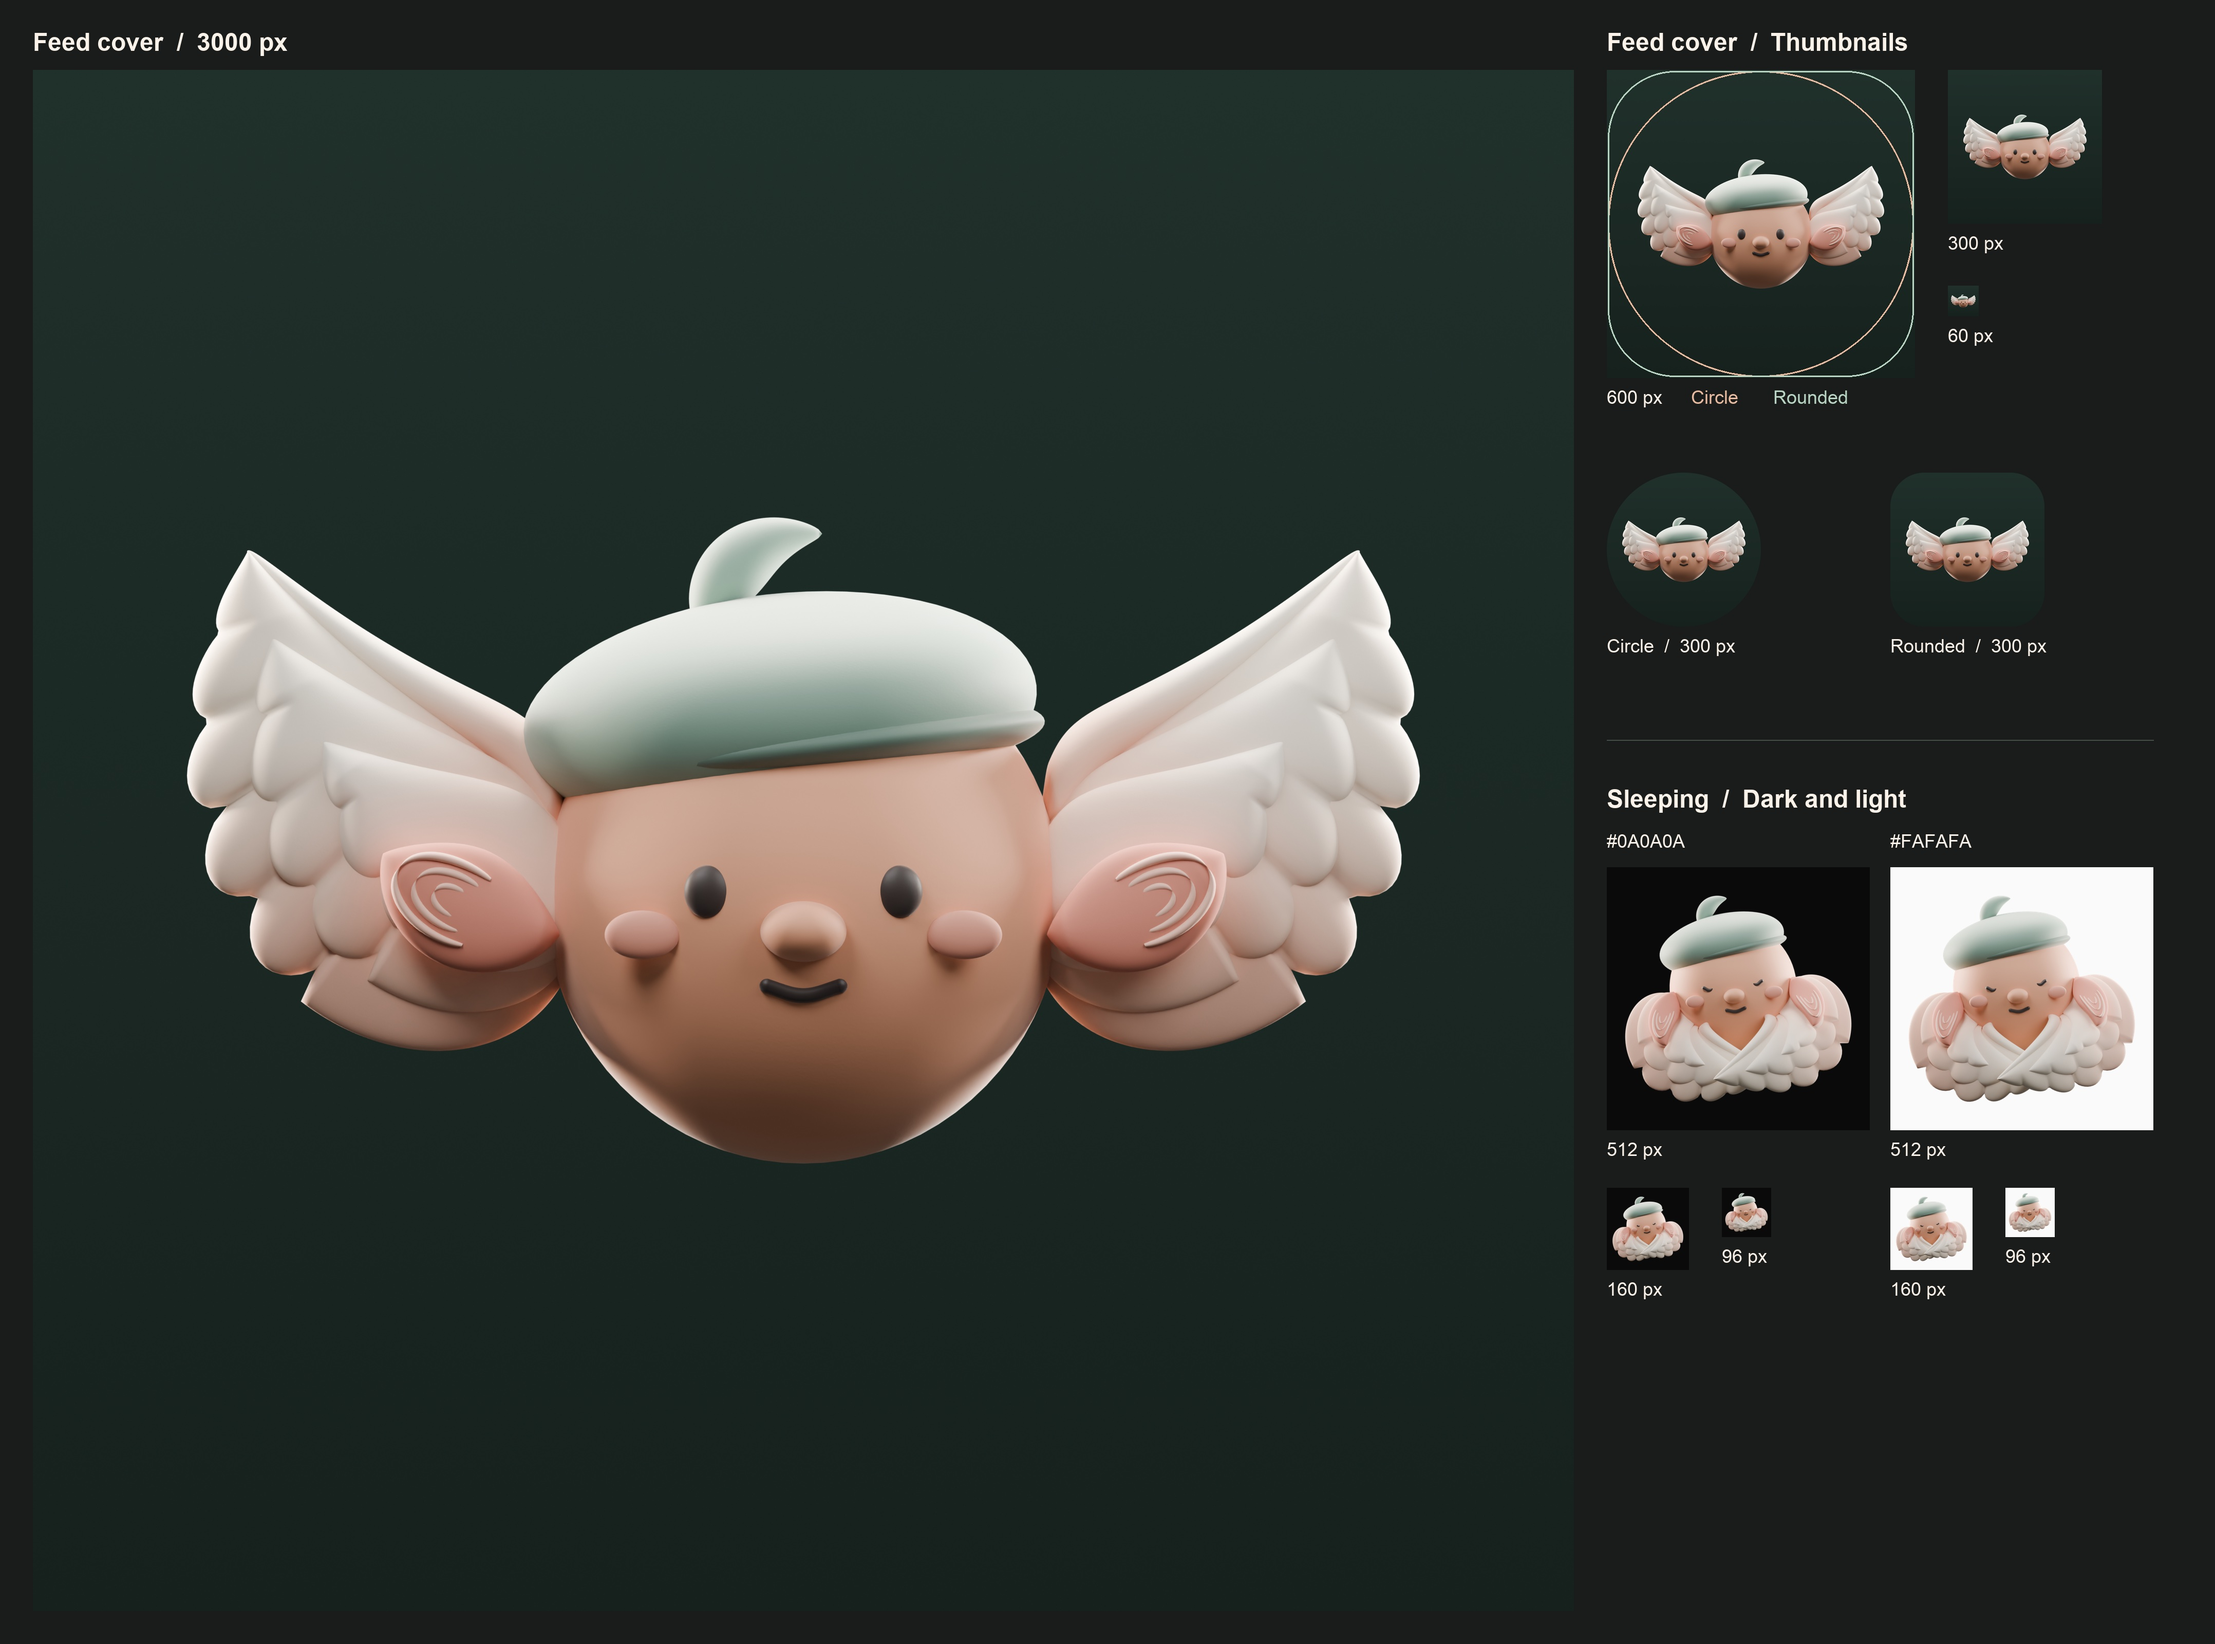
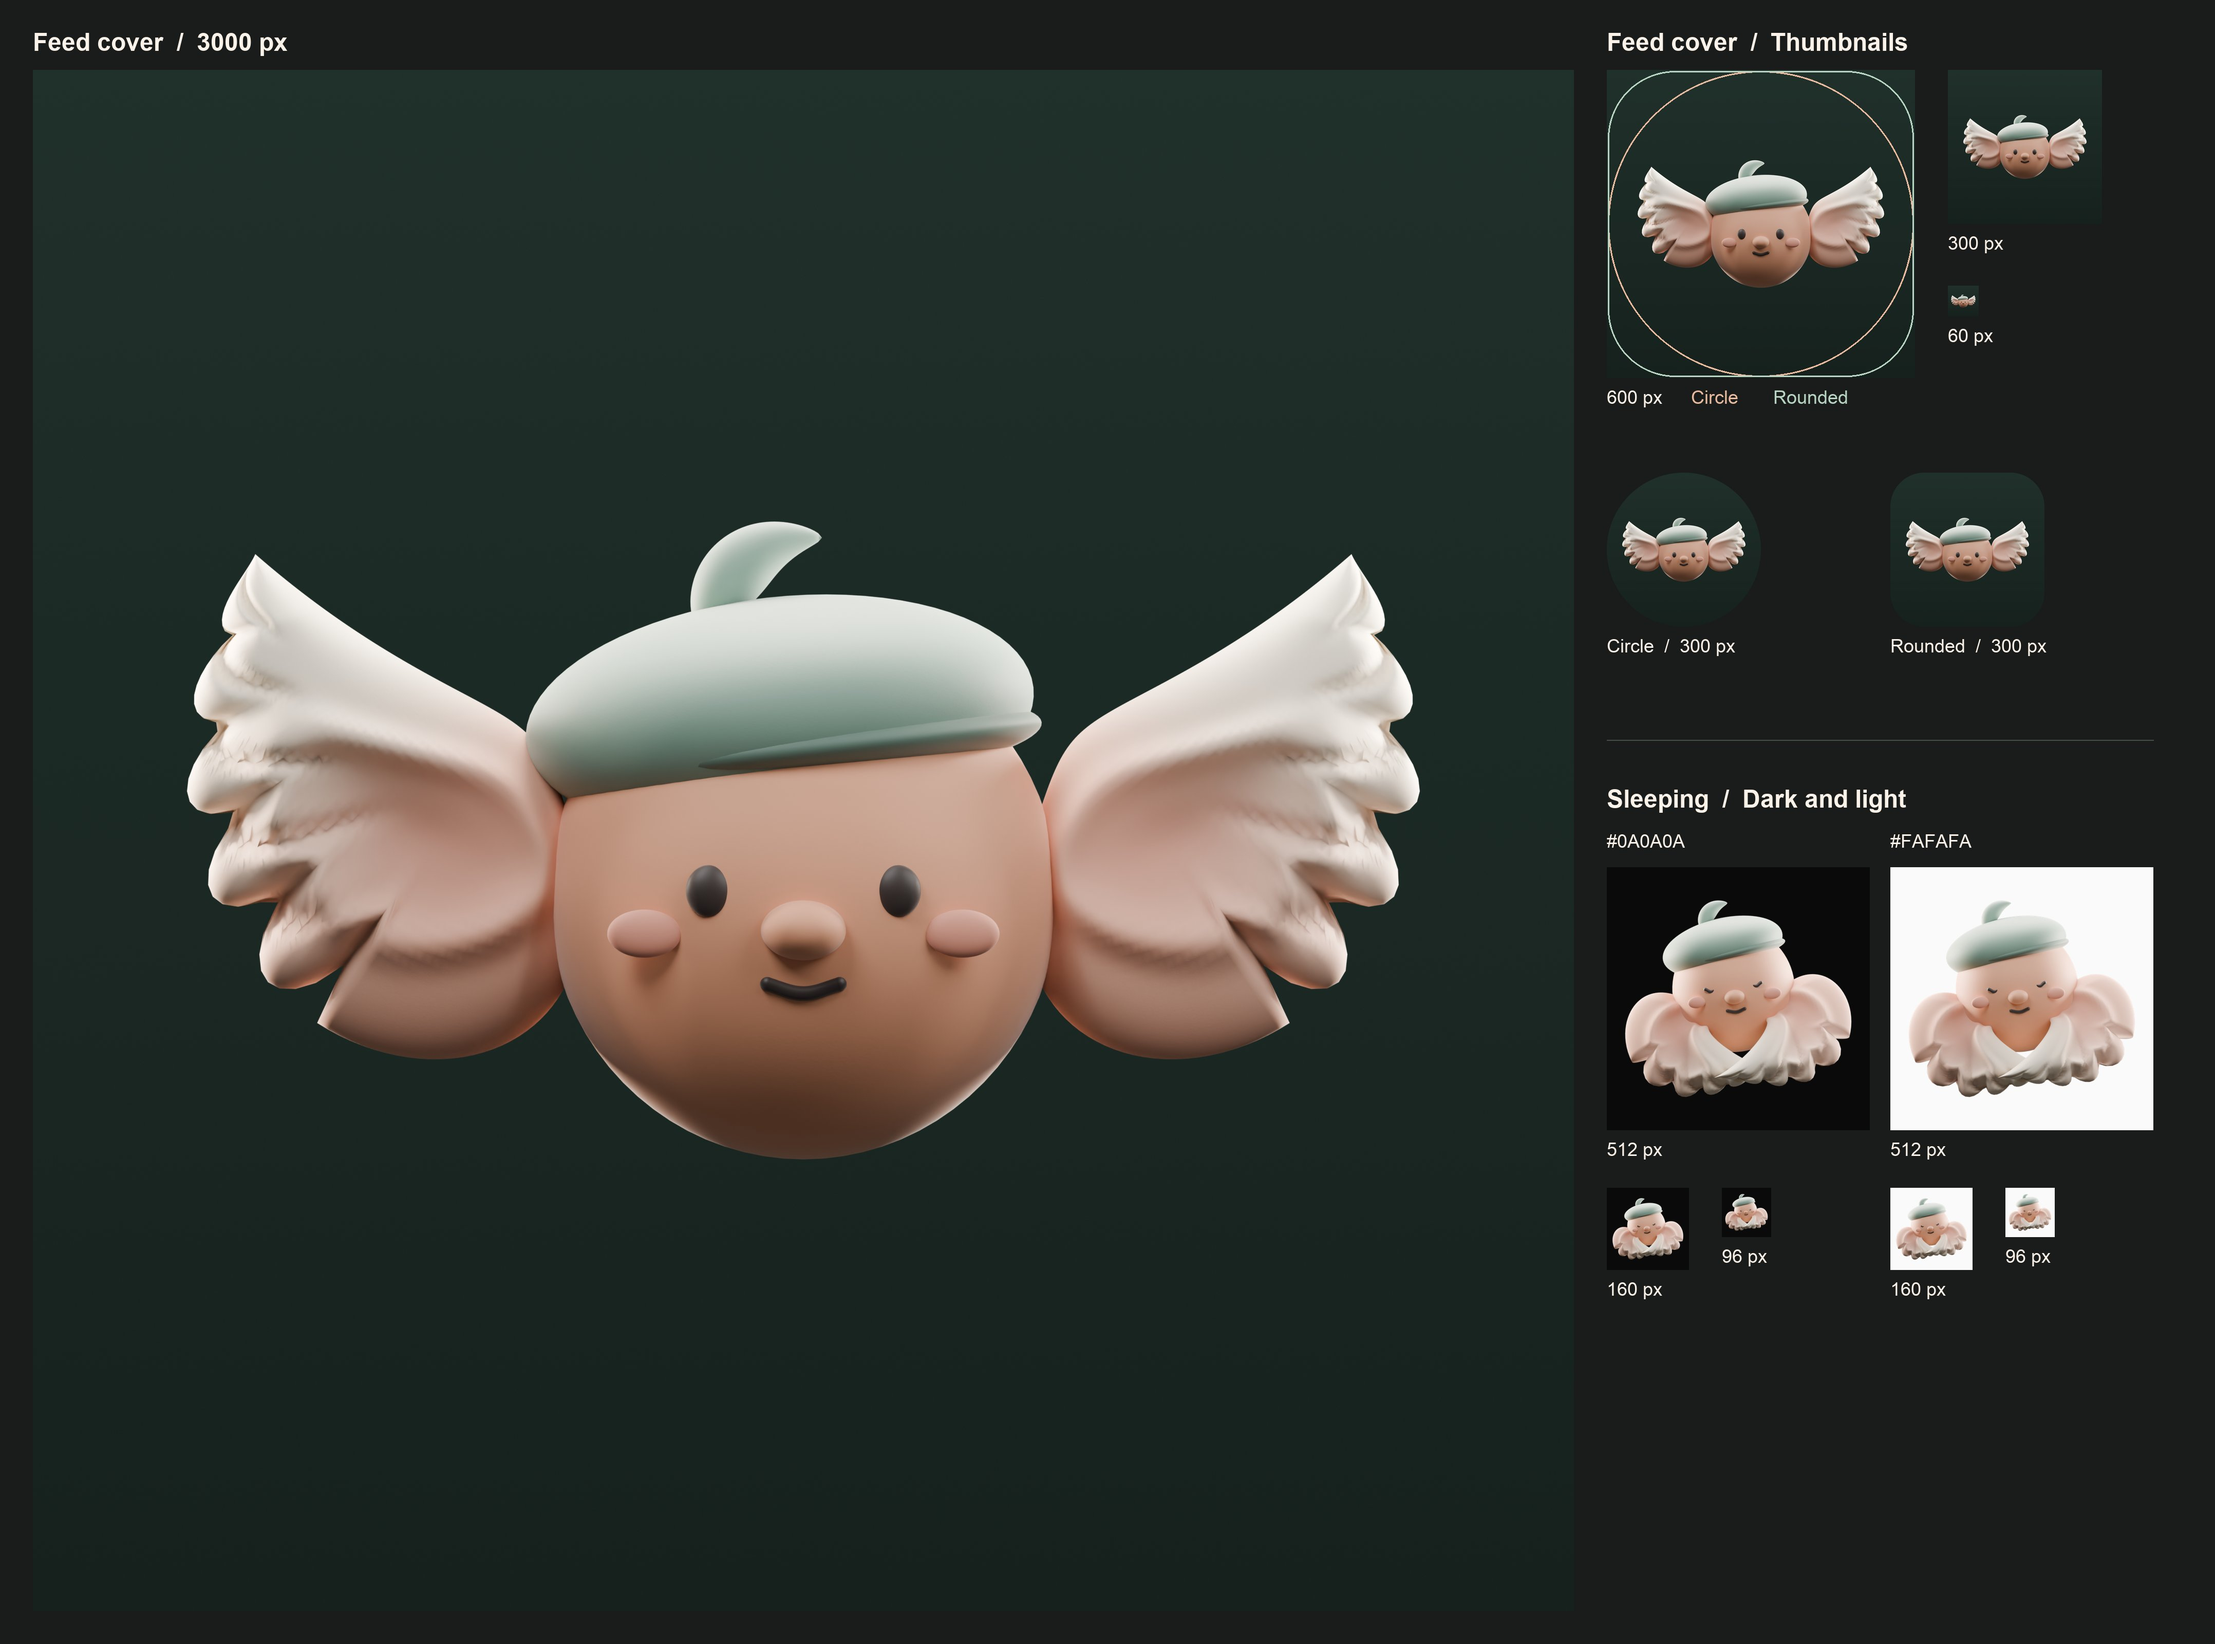
Use Ribbon + Fan Pan in the app and Feed

diff --git a/apps/api/src/http.ts b/apps/api/src/http.ts
@@ -399,7 +399,7 @@ const publicRoutes = HttpRouter.addAll([
           title: "Fama",
           author: "Fama",
           link: origin,
-          imageUrl: `${origin}/feed/${feedToken}/cover.jpg`,
+          imageUrl: `${origin}/feed/${feedToken}/cover.jpg?v=ribbon-fan`,
           items,
         })
         return HttpServerResponse.text(xml, { contentType: "application/rss+xml; charset=utf-8" })

diff --git a/brand/fama/mascot/src/poses.py b/brand/fama/mascot/src/poses.py
@@ -51,23 +51,26 @@ def render_pose(name, output):
     render_scene(output / f"{name}.png", 512, .84, tilt=pose["tilt"], rim_strength=.7)
 
 
-def render_open_or_folded(output, *, folded):
+def render_open_or_folded(path, *, folded, resolution=512, fill=.84):
     bpy.ops.wm.read_factory_settings(use_empty=True)
     clay = materials()
     head(clay, closed_eyes=folded)
     pose = "wrapped" if folded else "open"
     for side in (-1, 1):
         make_wing(wing_path(pose, side), side, clay, folded=folded)
-    filename = "folded.png" if folded else "open.png"
-    render_scene(output / filename, 512, .84, tilt=-7 if folded else 0, rim_strength=.65)
+    render_scene(path, resolution, fill, tilt=-7 if folded else 0, rim_strength=.65)
 
 
 if __name__ == "__main__":
     output, *names = sys.argv[sys.argv.index("--") + 1:]
     output = Path(output).resolve()
     output.mkdir(parents=True, exist_ok=True)
-    if not names:
-        render_open_or_folded(output, folded=False)
-        render_open_or_folded(output, folded=True)
-    for name in names or POSES:
-        render_pose(name, output)
+    if names == ["--app-art"]:
+        render_open_or_folded(output / "open.png", folded=False, resolution=3000, fill=.80)
+        render_open_or_folded(output / "wrapped.png", folded=True, resolution=1024, fill=.86)
+    else:
+        if not names:
+            render_open_or_folded(output / "open.png", folded=False)
+            render_open_or_folded(output / "folded.png", folded=True)
+        for name in names or POSES:
+            render_pose(name, output)

diff --git a/brand/fama/mascot/src/export.py b/brand/fama/mascot/src/export.py
@@ -1,11 +1,13 @@
 """Export the Feed cover, sleeping cutouts and proof from Blender's straight-alpha PNGs."""
 import sys
 from pathlib import Path
+from shutil import copyfile
 
 import numpy as np
 from PIL import Image, ImageCms, ImageDraw, ImageFont
 
 OUT = Path(__file__).resolve().parent.parent
+APPS = OUT.parents[2] / "apps"
 LANCZOS = Image.Resampling.LANCZOS
 BICUBIC = Image.Resampling.BICUBIC
 SRGB = ImageCms.ImageCmsProfile(ImageCms.createProfile("sRGB")).tobytes()
@@ -118,3 +120,9 @@ if __name__ == "__main__":
     sleeping = read_render(renders / "wrapped.png", 1024)
     sleeping_assets(sleeping)
     proof(cover, sleeping)
+    cover.resize((1400, 1400), LANCZOS).save(
+        APPS / "api/src/cover.jpg", quality=88, subsampling=0,
+        optimize=True, progressive=True, icc_profile=SRGB,
+    )
+    for path in ("web/public/pan-sleeping.png", "mobile/assets/pan-sleeping.png"):
+        copyfile(OUT / "sleeping-512.png", APPS / path)

diff --git a/brand/fama/mascot/src/companion.py b/brand/fama/mascot/src/companion.py
@@ -1,4 +1,4 @@
-"""Render the companion with short plum curls and Ribbon + Fan ears."""
+"""Render Pippa with short plum curls and Ribbon + Fan ears."""
 import math
 import sys
 from pathlib import Path

diff --git a/brand/fama/mascot/README.md b/brand/fama/mascot/README.md
@@ -2,12 +2,12 @@
 
 ## Ribbon + Fan
 
-One clay surface forms the ear hollow, rim, and feather tips. Pan wears a sage beret. His companion has short plum curls.
+One clay surface forms the ear hollow, rim, and feather tips. Pan wears a sage beret. Pippa has short plum curls.
 
 | Character | Transparent 512 × 512 PNGs |
 | --- | --- |
 | Pan | [Open](ribbon-fan/pan/open.png), [folded](ribbon-fan/pan/folded.png), [listening](ribbon-fan/pan/listening.png), [speaking](ribbon-fan/pan/speaking.png), [waving](ribbon-fan/pan/waving.png) |
-| Companion | [Open](ribbon-fan/companion/open.png), [listening](ribbon-fan/companion/listening.png) |
+| Pippa | [Open](ribbon-fan/companion/open.png), [listening](ribbon-fan/companion/listening.png) |
 
 Rebuild with Blender 5.2 from `brand/fama/mascot`.
 
@@ -20,15 +20,15 @@ Rebuild with Blender 5.2 from `brand/fama/mascot`.
 
 ## Feed cover and sleeping pose
 
-The Feed cover and empty-state art use the Take B Fold model.
+The Feed cover shows open Ribbon + Fan Pan. The empty Library shows Pan asleep with his ears folded.
 
 | File | Dimensions | Size | Use |
 | --- | --- | --- | --- |
-| `feed-cover-3000.png` | 3000 × 3000 | 5.24 MB | Lossless RGB cover master. Not committed (git-ignored); the rebuild makes it. |
-| [feed-cover-3000.jpg](feed-cover-3000.jpg) | 3000 × 3000 | 329 KB | RGB Feed cover for the 512 KB budget |
-| [sleeping.png](sleeping.png) | 1024 × 1024 | 538 KB | Transparent master |
-| [sleeping-512.png](sleeping-512.png) | 512 × 512 | 142 KB | Transparent empty-state asset up to about 170 logical px at 3× |
-| [sleeping-256.png](sleeping-256.png) | 256 × 256 | 46 KB | Transparent empty-state asset up to 128 logical px at 2× |
+| `feed-cover-3000.png` | 3000 × 3000 | 5.22 MB | Lossless RGB cover master. Not committed (git-ignored); the rebuild makes it. |
+| [feed-cover-3000.jpg](feed-cover-3000.jpg) | 3000 × 3000 | 315 KB | RGB Feed cover for the 512 KB budget |
+| [sleeping.png](sleeping.png) | 1024 × 1024 | 497 KB | Transparent master |
+| [sleeping-512.png](sleeping-512.png) | 512 × 512 | 129 KB | Transparent empty-state asset up to about 170 logical px at 3× |
+| [sleeping-256.png](sleeping-256.png) | 256 × 256 | 42 KB | Transparent empty-state asset up to 128 logical px at 2× |
 | [proof.jpg](proof.jpg) | 4312 × 3200 | JPEG | Cover crops and dark and light empty-state previews |
 
 ## Use
@@ -47,14 +47,14 @@ Use Blender 5.2 and `uv` on macOS. The proof uses the system Arial fonts. Run fr
   render_dir=$(mktemp -d .render.XXXXXX)
   trap 'rm -r "$render_dir"' EXIT
   /Applications/Blender.app/Contents/MacOS/Blender -b --factory-startup \
-    --python-exit-code 1 --python src/studio.py -- "$render_dir"
+    --python-exit-code 1 --python src/poses.py -- "$render_dir" --app-art
   uv run --no-project --with pillow --with numpy python src/export.py "$render_dir"
 )
 ```
 
-[src/studio.py](src/studio.py) renders the Feed cover and sleeping pose from the Take B model. [src/export.py](src/export.py) adds the spruce ground, makes the smaller sleeping files and builds the proof. The original studies are kept outside the repo.
+[src/poses.py](src/poses.py) renders the open and folded poses. [src/export.py](src/export.py) adds the spruce ground, builds the proof, and writes the app and Feed assets.
 
 ## In the apps
 
-- `apps/api/src/cover.jpg`: the feed cover at 1400 × 1400, JPEG quality 88, served at `/feed/<token>/cover.jpg`. A PNG is about 1.4 MB because of the dither, too large to bundle in the Worker.
+- `apps/api/src/cover.jpg`: the feed cover at 1400 × 1400, JPEG quality 88, served at `/feed/<token>/cover.jpg?v=ribbon-fan`. A PNG is about 1.4 MB because of the dither, too large to bundle in the Worker.
 - `apps/web/public/pan-sleeping.png` and `apps/mobile/assets/pan-sleeping.png`: `sleeping-512.png`, shown at 160 px in the empty library.

diff --git a/.claude/skills/verify-fama/features/private-feed.md b/.claude/skills/verify-fama/features/private-feed.md
@@ -7,6 +7,7 @@ A user copies the private feed URL from Settings and adds it to a podcast app. T
 - `feed-url-web` shows the feed URL in the web Settings dialog and copies it (`Copy feed URL`, then `Copied`).
 - `feed-url-ios` copies the feed URL on the iPhone (`Copy feed URL`, alert `Feed URL copied`) or opens Podcasts (`Add to Podcasts`).
 - `feed-items` lists one item for each Ready episode and leaves out Queued, Running and Failed episodes.
+- `feed-cover` shows open Ribbon + Fan Pan as the channel artwork.
 - `feed-enclosure` serves each enclosure with `206` for a Range request, type `audio/x-m4a`, and a length that matches the bytes.
 - `feed-private` refuses a wrong feed token, while the right token needs no header. The feed token gets `401` on `/api/*`, and a media path under `uploads/` gets `404`.
 - `feed-rotate` (`POST /api/feed/rotate`, no UI yet) gives a new feed URL, and the old feed and media URLs get `401`.
@@ -28,6 +29,7 @@ Preconditions:
 - **URL from the API.** Run `fama-verify feed`. It prints the same URL.
 - **Items.** Run `curl -s "$(fama-verify feed)" > $EVIDENCE/feed/feed.xml` and `grep -oE '<title>[^<]*</title>|<enclosure [^>]*>' $EVIDENCE/feed/feed.xml`. The channel title is `Fama`. There is one item for each Ready episode, newest first, each with an `<enclosure ... type="audio/x-m4a"/>`. No item exists for the episode that is not Ready.
 - **XML is valid.** Run `python3 -c "import xml.dom.minidom,sys; xml.dom.minidom.parse(sys.argv[1])" $EVIDENCE/feed/feed.xml`. Exit code `0`.
+- **Cover.** Read the channel's `itunes:image` URL from the RSS. Fetch that URL. It returns `200` and `image/jpeg`. Check for the 1400 × 1400 image of open Pan on spruce. The URL ends in `cover.jpg?v=ribbon-fan` so podcast apps can request the new artwork.
 - **Enclosure streams.** For one enclosure URL, run `curl -s -D - -o /dev/null -H 'Range: bytes=0-99' <url>`. Status `206`, `Content-Range: bytes 0-99/<length>`, and `<length>` equals the enclosure `length` attribute.
 - **Private.** Run `curl -s -o /dev/null -w '%{http_code}' http://localhost:8788/feed/wrong-token/rss.xml`. The status is `401`. Run `curl -s -o /dev/null -w '%{http_code}' -H 'Authorization: Bearer dev-feed-token' http://localhost:8788/api/episodes`. The status is `401`.
 - **Rotate.** Do this last: it changes the feed token for the rest of the run. Run `fama-verify api POST /api/feed/rotate`. It prints a new URL. The old URL and an old enclosure URL now get `401`, the new URL gets `200`, and `fama-verify api GET /api/episodes` shows media URLs with the new token. The web Settings dialog shows the new URL after it opens again.

diff --git a/.claude/skills/verify-fama/features/README.md b/.claude/skills/verify-fama/features/README.md
@@ -33,6 +33,7 @@ Each feature file starts with an H1 title and one paragraph that describes the u
 
 - [Add a link](./add-link.md): paste a web article link on the web or the iPhone, and get a narrated episode with the real title, the detected language and the default voice.
 - [Add a file](./add-file.md): attach a PDF, EPUB, Markdown or text file, and get one chapter for each table-of-contents entry.
+- [Empty Library](./empty-library.md): see folded Pan when the Library has no Episodes.
 - [Playback](./playback.md): play an episode on the web or the iPhone, skip, scrub, change speed, change chapters, download.
 - [Progress sync](./progress-sync.md): pause on the web or the iPhone, and the other resumes at the same position. A finished episode stores its total length and starts again from 0.
 - [Phone connect](./phone-connect.md): open the `fama://connect` link of the setup QR code, and the iPhone app checks the token, asks before it switches, and shows the new library. A bad link keeps the current connection.

diff --git a/.claude/skills/verify-fama/features/empty-library.md b/.claude/skills/verify-fama/features/empty-library.md
@@ -1,0 +1,22 @@
+# Empty Library
+
+The web and iPhone show folded Ribbon + Fan Pan when the Library has no Episodes.
+
+## Sub-features
+
+- `empty-library-art` shows the sleeping Pan image in the empty Library.
+
+## How to get to it (user POV)
+
+Connect the app to a server with an empty Library. On iPhone, open the Library tab.
+
+## Driving it with preview tools and agent-device
+
+- Use a fresh local verification instance. Check that `fama-verify api GET /api/episodes` returns an empty list.
+- Open the web Library. Check that the 160 px sleeping Pan image loads from `/pan-sleeping.png`.
+- On iPhone, open the Library tab. Check that folded Pan appears above “Nothing to listen to yet.” Save a screenshot with `agent-device`.
+
+## Gotchas
+
+- Wait until the first Library request finishes. The web app does not show Pan while it loads.
+- An iPhone with no server also shows Pan. Check the empty Library after the app connects.
